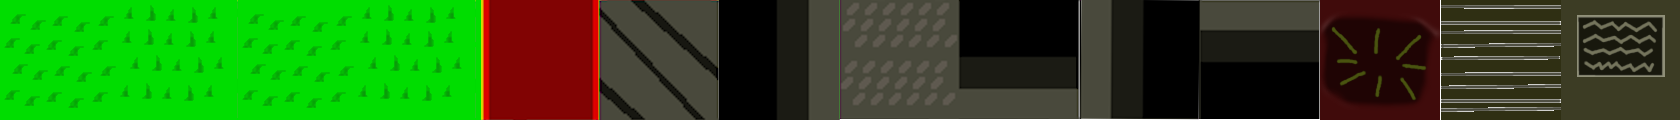
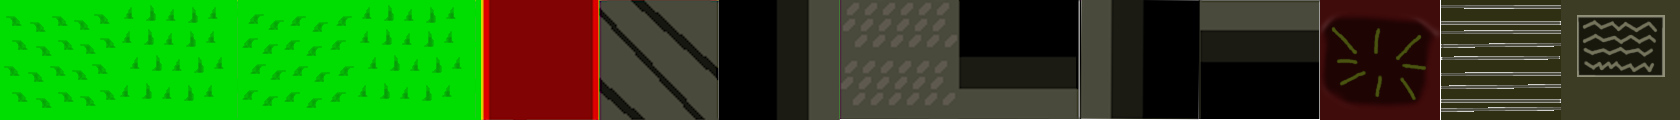
refactoring, got grass to dance!

diff --git a/inc/database/DatabaseReader.hpp b/inc/database/DatabaseReader.hpp
@@ -23,9 +23,7 @@ using bsoncxx::builder::stream::document;
 
 /**
  * The databasereader interfaces with mongodb when necessary
- * in order to aggregate different forms of objects
- * these objects are all the drawable objects,
- * and all the interactable objects
+ * in order to aggregate different regions of objects
  */
 class DatabaseReader
 {
@@ -36,33 +34,23 @@ public:
 	 * @param database The name of the database to connect to
 	 * @param databaseUrl The url of the database
 	 * @param port The port of the database
-	 * @param tileUnitSize The size of each tile unit
-	 * @param tileWidth The width each tile should take
-	 * @param tileHeight The height each tile should take
 	 */
 	DatabaseReader(
 		char const * const database,
 		char const * const databaseUrl,
-		short const port,
-		sf::Vector2u const tileUnitSize,
-		unsigned int const tileWidth,
-		unsigned int const tileHeight);
+		short const port);
 
 	/**
 	 * When a new region needs to be loaded, this will load it in
 	 * @param collectionName The name of the collection being loaded
 	 * @param subCollectionName The name of the subcollection being loaded
+	 * @param entityContainer A reference to the entity container that will be filled
+	 * 						  with the appropriate lists of containers
 	 */
 	void LoadNewRegion(
 		char const * const collectionName,
 		char const * const subCollectionName,
 		EntityContainer& entityContainer);
-
-	/**
-	 * Returns a list of all the things
-	 * that need to be drawn to the screen
-	 */
-	std::list<std::shared_ptr<DrawableTransformable>> GetDrawableTransformables();
 
 private:
 
@@ -115,10 +103,6 @@ private:
 	mongocxx::instance const mk_inst;
 	mongocxx::client const mk_clientConnection;
 	char const * const mk_databaseName;
-
-	std::shared_ptr<TileMap> m_pBottomLayerTileMap;
-	std::list<std::shared_ptr<IGridded>> interactableObjects;
-	std::list<std::shared_ptr<DrawableTransformable>> drawableObjects;
 };
 
 #endif

diff --git a/src/database/DatabaseReader.cpp b/src/database/DatabaseReader.cpp
@@ -17,18 +17,11 @@ using bsoncxx::builder::concatenate_doc;
 DatabaseReader::DatabaseReader(
 		char const * const database,
 		char const * const databaseUrl,
-		short const port,
-		sf::Vector2u const tileUnitSize,
-		unsigned int const tileWidth,
-		unsigned int const tileHeight)
+		short const port)
 	: mk_type("DatabaseReader")
 	, mk_inst{}
 	, mk_clientConnection({mongocxx::uri(std::string(databaseUrl) + ":" + std::to_string(port))})
 	, mk_databaseName(database)
-	, m_pBottomLayerTileMap(std::make_shared<TileMap>(
-		tileUnitSize,
-		tileWidth,
-		tileHeight))
 {}
 
 void DatabaseReader::LoadNewRegion(
@@ -57,13 +50,6 @@ bool DatabaseReader::ShouldDrawInArray_(bsoncxx::v_noabi::array::element element
 {
 	bsoncxx::document::element indexObject{element["index"]};
 	return indexObject.length() != 0;
-}
-
-std::list<std::shared_ptr<DrawableTransformable>> DatabaseReader::GetDrawableTransformables()
-{
-	std::list<std::shared_ptr<DrawableTransformable>> toReturn;
-	toReturn.emplace_back(m_pBottomLayerTileMap);
-	return toReturn;
 }
 
 mongocxx::cursor DatabaseReader::GetRegions_(

diff --git a/src/loop/GameLoop.cpp b/src/loop/GameLoop.cpp
@@ -5,8 +5,8 @@
 GameLoop::GameLoop()
 	: mk_type("GameLoop")
 	, m_pLocation(std::make_shared<Location>(std::pair<int, int>(0, 0)))
-	, mk_uScreenHeight(sf::VideoMode::getDesktopMode().height)
 	, mk_uScreenWidth(sf::VideoMode::getDesktopMode().width)
+	, mk_uScreenHeight(sf::VideoMode::getDesktopMode().height)
 	, mk_uFrameRate(60)
 	, mk_windowName("Emmoria")
 	, mk_collection("map")
@@ -50,10 +50,7 @@ std::shared_ptr<DatabaseReader> GameLoop::GetDatabaseReaderPtr_()
 	auto pDatabaseReader(std::make_shared<DatabaseReader>(
 		"emmoria",
 		"mongodb://localhost",
-		short(27017),
-		sf::Vector2u(mk_screenReductionRatio, mk_screenReductionRatio),
-		mk_uScreenWidth/mk_screenReductionRatio,
-		mk_uScreenHeight/mk_screenReductionRatio));
+		short(27017)));
 	return pDatabaseReader;
 }
 
@@ -101,6 +98,7 @@ void GameLoop::UpdateAllEntities_()
 	}
 	m_entityContainer.m_pTileMap->Load();
 }
+
 void GameLoop::DrawAllEntities_(
 	std::shared_ptr<sf::RenderWindow> pGameWindow)
 {

diff --git a/inc/entity/EntityCombination.hpp b/inc/entity/EntityCombination.hpp
@@ -1,10 +1,10 @@
+#ifndef ENTITY_COMBINATION_HPP
+#define ENTITY_COMBINATION_HPP
+
 #include "../../inc/entity/DrawableTransformable.hpp"
 #include "../../inc/entity/IGridded.hpp"
 #include "../../inc/entity/IInteractable.hpp"
 #include "../../inc/entity/IUpdatable.hpp"
-
-#ifndef ENTITY_COMBINATION_HPP
-#define ENTITY_COMBINATION_HPP
 
 /**
  * This file defines all the classes that may be mixed for entities
@@ -49,12 +49,5 @@
 	CLASS(IGridded, IInteractable, IUpdatable);
 
 #undef CLASS
-
-class DrawableTransformableIGriddedIInteractableIUpdatable
-		: public DrawableTransformable
-		, public IGridded
-		, public IInteractable
-		, public IUpdatable
-		{ public: virtual ~DrawableTransformableIGriddedIInteractableIUpdatable() {}; };
 
 #endif

diff --git a/inc/loop/GameLoop.hpp b/inc/loop/GameLoop.hpp
@@ -56,6 +56,8 @@ private:
 		std::shared_ptr<sf::RenderWindow> pGameWindow,
 		std::shared_ptr<DatabaseReader> pDatabaseReader);
 
+	void UpdateAllEntities_();
+
 	/**
 	 * Writes all the entitiess to the screen
 	 * @param pDatabaseReader the database reader which provides the entities
@@ -63,14 +65,12 @@ private:
 	void DrawAllEntities_(
 		std::shared_ptr<sf::RenderWindow> pGameWindow);
 
-	void UpdateAllEntities_();
-
 	LoggerType_t const mk_type;
 
 	std::shared_ptr<Location> m_pLocation;
 
-	unsigned int const mk_uScreenHeight;
 	unsigned int const mk_uScreenWidth;
+	unsigned int const mk_uScreenHeight;
 	unsigned int const mk_uFrameRate;
 	char const * const mk_windowName;
 	char const * const mk_collection;

diff --git a/src/entity/EntityContainer.cpp b/src/entity/EntityContainer.cpp
@@ -89,16 +89,3 @@ void EntityContainer::InsertIUpdatableEntity(std::shared_ptr<IUpdatable> updatab
 	INSERT(IGridded, IInteractable, IUpdatable)
 
 #undef INSERT
-
-#define INSERT(interface1, interface2, interface3, interface4) \
-	void EntityContainer::Insert##interface1##interface2##interface3##interface4##Entity(std::shared_ptr<interface1##interface2##interface3##interface4> entity) \
-	{ \
-		m_entity##interface1##List.emplace_back(entity); \
-		m_entity##interface2##List.emplace_back(entity); \
-		m_entity##interface3##List.emplace_back(entity); \
-		m_entity##interface4##List.emplace_back(entity); \
-	}
-
-	INSERT(DrawableTransformable, IGridded, IInteractable, IUpdatable)
-
-#undef INSERT

diff --git a/inc/entity/simple/Grass.hpp b/inc/entity/simple/Grass.hpp
@@ -12,11 +12,22 @@ class Grass
 	: public IGriddedIUpdatable
 {
 public:
-	Grass(int x, int y) : IGriddedIUpdatable(x, y), p_tmp(std::make_shared<int>(0)) {}
+	Grass(int x, int y) :
+		IGriddedIUpdatable(x, y),
+		m_ptmp(std::make_shared<int>(0)),
+		m_currentFrame(0),
+		m_cyclicFrame(60),
+		m_numAnimations(4)
+	{}
+	virtual ~Grass() {};
+
 	void Update() override;
 	std::shared_ptr<int> GetSubTextureIndexPtr() override;
-	virtual ~Grass() {};
-	std::shared_ptr<int> p_tmp;
+private:
+	std::shared_ptr<int> m_ptmp;
+	int m_currentFrame;
+	int m_cyclicFrame;
+	int m_numAnimations;
 };
 
 #endif

diff --git a/inc/entity/EntityContainer.hpp b/inc/entity/EntityContainer.hpp
@@ -61,11 +61,6 @@ public:
 		INSERT(IGridded, IInteractable, IUpdatable);
 	#undef INSERT
 
-	#define INSERT(interface1, interface2, interface3, interface4) \
-		void Insert##interface1##interface2##interface3##interface4##Entity(std::shared_ptr<interface1##interface2##interface3##interface4>)
-		INSERT(DrawableTransformable, IGridded, IInteractable, IUpdatable);
-	#undef INSERT
-
 private:
 	std::list<std::shared_ptr<DrawableTransformable>> m_entityDrawableTransformableList;
 	std::list<std::shared_ptr<IGridded>> m_entityIGriddedList;

diff --git a/inc/util/logger/Logger.hpp b/inc/util/logger/Logger.hpp
@@ -1,9 +1,3 @@
-/**
- * The concrete implementation of the logger for most systems.
- * This logger will simply print to the console with varying
- * degrees of colour depending on the severity.
- */
-
 #ifndef LOGGER_HPP
 #define LOGGER_HPP
 
@@ -11,6 +5,11 @@
 
 #include <memory>
 
+/**
+ * The concrete implementation of the logger for most systems.
+ * This logger will simply print to the console with varying
+ * degrees of colour depending on the severity.
+ */
 class Logger : public ILogger
 {
 public:

diff --git a/inc/util/logger/ILogger.hpp b/inc/util/logger/ILogger.hpp
@@ -1,7 +1,3 @@
-/**
- * This class acts as the interface for any logger object made
- */
-
 #ifndef I_LOGGER_HPP
 #define I_LOGGER_HPP
 
@@ -31,6 +27,9 @@ private:
 	char const * const m_typeName;
 };
 
+/**
+ * This class acts as the interface for any logger object made
+ */
 class ILogger
 {
 public:

diff --git a/src/entity/simple/Grass.cpp b/src/entity/simple/Grass.cpp
@@ -3,10 +3,11 @@
 
 void Grass::Update()
 {
-	(*p_tmp) = (*p_tmp + 1) % 4;
+	m_currentFrame = (m_currentFrame + 1) % m_cyclicFrame;
+	(*m_ptmp) = m_currentFrame / (m_cyclicFrame / m_numAnimations);
 }
 
 std::shared_ptr<int> Grass::GetSubTextureIndexPtr()
 {
-	return p_tmp;
+	return m_ptmp;
 }

diff --git a/inc/debug/DebugMetricVisualizer.hpp b/inc/debug/DebugMetricVisualizer.hpp
@@ -18,7 +18,7 @@ class DebugMetricVisualizer
 {
 public:
 	/**
-	 * Empty initializes a lot of variables that will track how
+	 * Initializes a lot of variables that will track how
 	 * the game is performing
 	 */
 	DebugMetricVisualizer();
